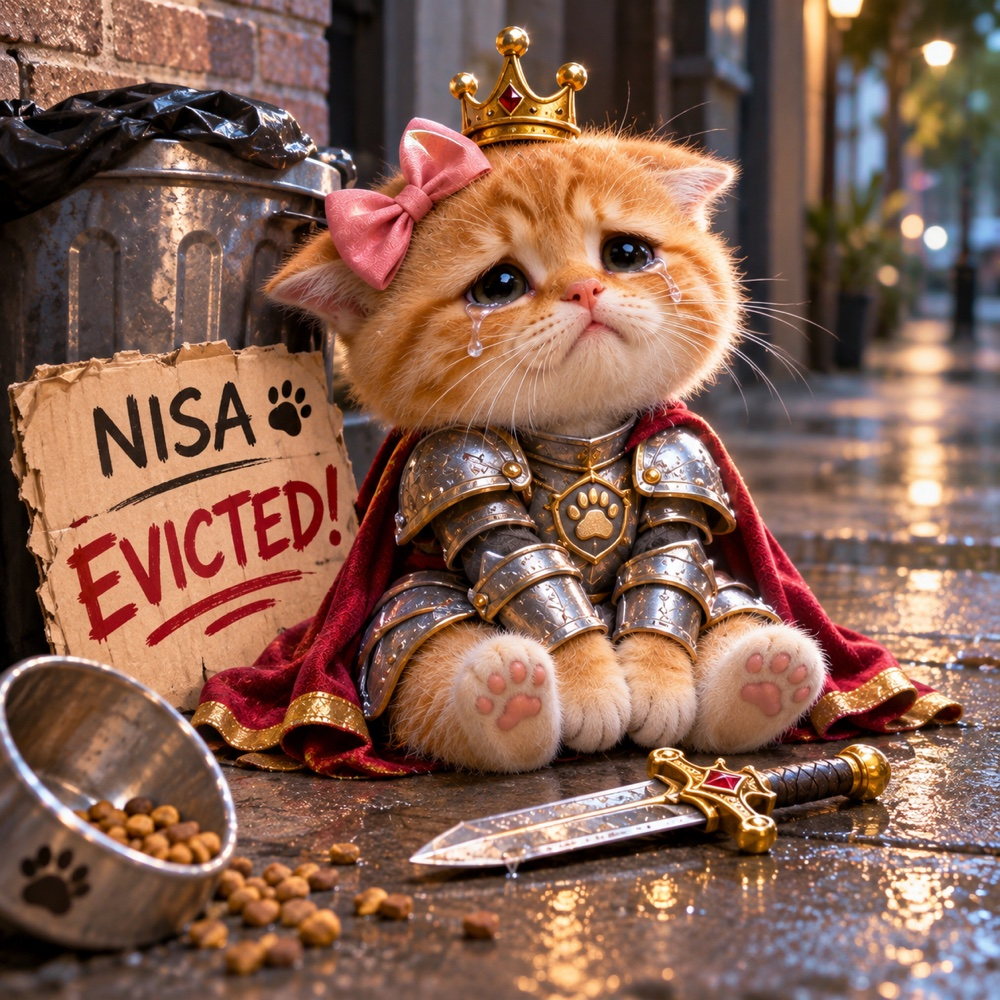
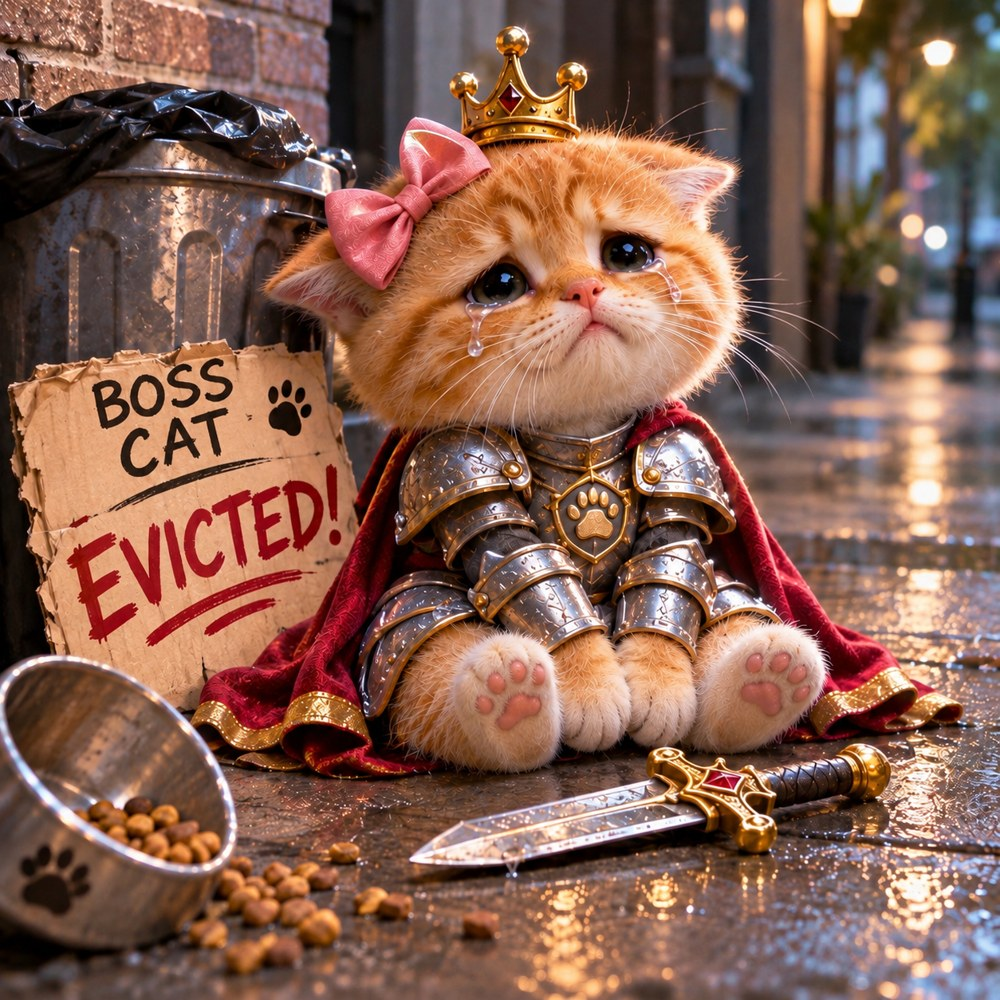
Fix score uploads, rename Boss Cat artwork and handle phone rotation in v0.6.21

diff --git a/index.template.html b/index.template.html
@@ -1,4 +1,4 @@
-<!doctype html><html lang="en"><head><meta charset="utf-8"><meta name="viewport" content="width=device-width,initial-scale=1,viewport-fit=cover,user-scalable=no"><title>Smack That Cat! v0.6.20</title><style>
+<!doctype html><html lang="en"><head><meta charset="utf-8"><meta name="viewport" content="width=device-width,initial-scale=1,viewport-fit=cover,user-scalable=no"><title>Smack That Cat! v0.6.21</title><style>
 *{box-sizing:border-box}html,body{margin:0;height:100%;overflow:hidden;background:#261522;font-family:system-ui,-apple-system,sans-serif;color:white}button{cursor:pointer;font:inherit;touch-action:manipulation}#app{position:relative;max-width:650px;height:100dvh;margin:auto;overflow:hidden;background:radial-gradient(circle,#fff5da,#f7bcb3)}.hidden{display:none!important}#home,#game,#cinema,#end,#help,#paused{position:absolute;inset:0}#home{background:#35221e}#poster{width:100%;height:100%;object-fit:cover}#home:after{content:"";position:absolute;inset:65% 0 0;background:linear-gradient(transparent,#24111ad9);pointer-events:none}#menu{position:absolute;bottom:max(5%,env(safe-area-inset-bottom));left:0;right:0;z-index:2;display:grid;justify-items:center;gap:12px}.primary{border:4px solid #fff3d8;border-radius:50px;background:linear-gradient(#ff7286,#e72452);color:white;font-size:27px;font-weight:1000;padding:12px 58px;box-shadow:0 6px #92203c}.secondary{border:2px solid #a34a5a;border-radius:40px;background:#fff3dd;color:#692d43;font-weight:800;padding:10px 25px}#hud{position:absolute;z-index:5;top:max(10px,env(safe-area-inset-top));left:10px;right:10px;display:flex;align-items:flex-start;justify-content:space-between;gap:5px}.pill{min-width:73px;text-align:center;border-radius:13px;border:2px solid #ffdb95;background:#6b3041;padding:5px 8px;font-size:11px;font-weight:900}.pill strong{display:block;font-size:25px;color:#ffe57a}#tools{display:flex;gap:5px}#tools button{border:2px solid #fff6;border-radius:10px;background:#fff3df;color:#763145;height:43px;min-width:39px}#phase{position:absolute;top:85px;left:6px;right:6px;text-align:center;color:#922b50;font-size:clamp(18px,5vw,26px);font-weight:1000}#arena{position:absolute;inset:145px 8px 105px;overflow:hidden;touch-action:none}#target{position:absolute;left:50%;top:50%;transform:translate(-50%,-50%);width:clamp(120px,39vw,240px);height:clamp(120px,39vw,240px);border:0;background:none;padding:0;touch-action:none;transition:left .13s ease-out,top .13s ease-out}#target img{width:100%;height:100%;object-fit:contain;pointer-events:none;user-select:none}#target.boss{width:min(65%,260px);height:min(80%,380px)}#target.hit img{animation:boop .16s ease}@keyframes boop{50%{transform:scale(.89) rotate(-5deg)}}#bubble{position:absolute;bottom:calc(100% + 6px);left:50%;transform:translateX(-50%);white-space:nowrap;font-size:clamp(17px,4.2vw,23px);color:#e92859;font-weight:1000;text-shadow:1px 2px white;pointer-events:none}#progress{position:absolute;bottom:max(12px,env(safe-area-inset-bottom));left:4px;right:4px;text-align:center;color:#782c43;font-weight:900;font-size:13px}#slots{display:flex;justify-content:center;gap:5px;margin-top:7px}.slot{width:clamp(37px,11vw,54px);height:clamp(37px,11vw,54px);border:2px solid #ce8793;border-radius:10px;background:#fff9}.slot img{width:100%;height:100%;object-fit:contain}#cinema{z-index:12;background:#21151e;display:flex;flex-direction:column;align-items:stretch;justify-content:center;padding-top:env(safe-area-inset-top);padding-bottom:env(safe-area-inset-bottom)}#cinema img{width:100%;height:calc(100% - 96px);min-height:0;object-fit:contain;flex:1}#cinemaLabel{position:relative;flex:none;min-height:90px;padding:12px 16px;display:grid;place-items:center;text-align:center;font-weight:1000;font-size:clamp(18px,4.8vw,29px);line-height:1.12;color:#ffe46c;text-shadow:2px 3px #842441;background:#21151e}#end,#help,#paused{z-index:20;background:#271524e9;display:grid;place-items:center;padding:18px}.panel{background:#fff1d9;border:4px solid #f6bb61;border-radius:23px;color:#702d43;padding:23px;max-width:440px;width:100%;text-align:center}.panel h1{margin:0 0 10px}#finalScore{font-size:58px;font-weight:1000;color:#e83259}#notice{position:absolute;z-index:8;top:23%;left:10%;right:10%;text-align:center;font-weight:1000;font-size:clamp(22px,5vw,32px);color:#ef3b64;text-shadow:2px 2px white;pointer-events:none}#notice.bossNotice{top:112px;font-size:19px}#toast{font-size:14px;min-height:20px}@media(max-height:620px){#arena{inset:125px 8px 75px}#phase{top:75px}#target.boss{height:75%}#progress{font-size:11px}}@media(min-aspect-ratio:1/1){#poster{object-fit:contain}#arena{inset:120px 8px 65px}#target{width:clamp(110px,28vh,230px);height:clamp(110px,28vh,230px)}#target.boss{height:85%}}
 
 /* Use the game’s own hit feedback and keep touch gestures out of the arena. */
@@ -136,9 +136,15 @@
 #boardTabs button[aria-selected="true"] { background:#8e3552; color:#fff5db; }
 #boardPeriod {font-size:12px;min-height:16px}
 #boardEmpty {font-size:13px}
-</style></head><body><main id="app"><section id="home"><img id="poster" src="assets/landing.png" alt="Chaotic cat kitchen"><div id="menu"><div id="homeProgress"></div><button id="play" class="primary">PLAY!</button><button id="openAlbum" class="secondary">MY PAW-SY & DAILY GIFT</button><button id="how" class="secondary">HOW TO PLAY</button><button id="homeSound" class="secondary" aria-label="Play music">♪ Play music</button></div></section><section id="game" class="hidden"><div id="hud"><div class="pill">YOUR SCORE<strong id="score">0</strong></div><div class="pill">TIME<strong id="time">15</strong></div><div id="tools"><button id="sound" aria-label="Toggle sound">🔊</button><button id="pause" aria-label="Pause">Ⅱ</button></div></div><div id="phase">SMACK THAT CAT!</div><div id="notice"></div><div id="arena"><div id="roundupFriends" class="hidden"></div><div id="bossImpact" aria-hidden="true"></div><button id="target" aria-label="Tap cat"><img id="cat" alt="Cat"><span id="bubble"></span></button></div><div id="progress"><span id="progressText">PAW-SY COLLECTED 0/6</span><div id="slots"></div></div>
-<div id="bossIntro" class="hidden" role="status"><strong>A WILD NISA HAS APPEARED!</strong><span id="bossCommand" class="hidden">QUICK SMACK HER!</span></div><div id="comboMeter" class="hidden">Hits in a row build a combo</div><div id="comboPopup" class="hidden" role="status"></div>
-<div id="bossLine" class="hidden">NISA HITS 0</div>
+
+html,body { width:100%; overscroll-behavior:none; }
+#app { height:var(--playHeight,100dvh); }
+#rotateNotice { position:absolute; inset:0; z-index:30; display:grid; place-items:center; padding:20px; background:#291925f5; text-align:center; }
+#rotateNotice h1 {font-size:25px}
+#rotateNotice p {line-height:1.5}
+</style></head><body><main id="app"><section id="rotateNotice" class="hidden" role="alert"><div class="panel"><h1>Turn your phone upright</h1><p>The cats play best in portrait.<br><span id="rotateHint">Turn back to keep playing.</span></p></div></section><section id="home"><img id="poster" src="assets/landing.png" alt="Chaotic cat kitchen"><div id="menu"><div id="homeProgress"></div><button id="play" class="primary">PLAY!</button><button id="openAlbum" class="secondary">MY PAW-SY & DAILY GIFT</button><button id="how" class="secondary">HOW TO PLAY</button><button id="homeSound" class="secondary" aria-label="Play music">♪ Play music</button></div></section><section id="game" class="hidden"><div id="hud"><div class="pill">YOUR SCORE<strong id="score">0</strong></div><div class="pill">TIME<strong id="time">15</strong></div><div id="tools"><button id="sound" aria-label="Toggle sound">🔊</button><button id="pause" aria-label="Pause">Ⅱ</button></div></div><div id="phase">SMACK THAT CAT!</div><div id="notice"></div><div id="arena"><div id="roundupFriends" class="hidden"></div><div id="bossImpact" aria-hidden="true"></div><button id="target" aria-label="Tap cat"><img id="cat" alt="Cat"><span id="bubble"></span></button></div><div id="progress"><span id="progressText">PAW-SY COLLECTED 0/6</span><div id="slots"></div></div>
+<div id="bossIntro" class="hidden" role="status"><strong>A WILD BOSS CAT HAS APPEARED!</strong><span id="bossCommand" class="hidden">QUICK SMACK HER!</span></div><div id="comboMeter" class="hidden">Hits in a row build a combo</div><div id="comboPopup" class="hidden" role="status"></div>
+<div id="bossLine" class="hidden">BOSS CAT HITS 0</div>
 </section><section id="cinema" class="hidden"><img id="scene" alt="Story scene"><div id="cinemaLabel"></div><div id="cinemaTip" class="hidden">CATCH FRIENDS · SKIP TABBIES<br>Collect all 6 · Seconds left = points!</div></section><section id="roundResult" class="hidden" aria-live="polite">
   <div class="panel">
     <h1 id="roundResultText">Round complete!</h1>
@@ -157,13 +163,13 @@
   <div id="boardTabs" role="tablist" aria-label="Leaderboard period"><button id="weekTab" role="tab" aria-selected="true" aria-controls="boardPanel">This Week</button><button id="allTab" role="tab" aria-selected="false" tabindex="-1" aria-controls="boardPanel">All Time</button></div><p id="boardPeriod">Mon–Sun · Malaysia time (UTC+8)</p><div id="boardPanel" role="tabpanel" aria-labelledby="weekTab"><p id="boardEmpty"></p>
 
   <table aria-label="Online high scores">
-    <thead><tr><th scope="col">Rank</th><th scope="col">Player</th><th scope="col">Score</th><th scope="col">Nisa hits</th></tr></thead>
+    <thead><tr><th scope="col">Rank</th><th scope="col">Player</th><th scope="col">Score</th><th scope="col">Boss Cat hits</th></tr></thead>
     <tbody id="ranks"></tbody>
   </table></div>
 
 </section></div></section><section id="journal" class="hidden" role="dialog" aria-modal="true" aria-labelledby="albumTitle"><div class="panel">
 <h1 id="albumTitle">MY PAW-SY</h1><p id="albumBest"></p><div id="albumGrid"></div>
-<h2>Today's little adventure</h2><p>Collect 18 friends across your rounds to earn today's ribbon. Every friend counts!</p><progress id="dailyMeter" max="18" value="0" aria-label="Friends collected today"></progress><p id="dailyProgress"></p><div id="dailyRibbons" aria-label="Daily ribbons"></div><p id="saveNote"></p><button id="closeAlbum" class="secondary">BACK TO THE CATS</button></div></section><section id="help" class="hidden"><div class="panel"><h1>HOW TO PLAY</h1><p><strong>SMACK THAT CAT!</strong> Tap cats: each hit earns 1 point. Keep hitting within 0.6 seconds to build a combo. A miss or a pause ends it.</p><p><strong>BOSS CAT:</strong> Smack Nisa as often as you can during her full 5 seconds!</p><p><strong>PAW-SY ROUNDUP:</strong> Catch named friends, skip tabbies. Collect all 6 in 10 seconds. Finish in 3 seconds to earn 7 points!</p><p><strong>COME BACK FOR A LITTLE ADVENTURE:</strong> Your album and personal best save on this browser. Collect 18 friends in a day for a ribbon. No sign-in, and no penalty for missing a day.</p><button id="closeHelp" class="secondary">GOT IT!</button></div></section><section id="paused" class="hidden"><div class="panel"><h1>PAUSED</h1><button id="resume" class="primary">RESUME</button></div></section></main><script>(()=>{'use strict';const $=id=>document.getElementById(id);const ASSETS={"tabby0":"assets/tabby0.png","tabby5":"assets/tabby5.png","cloud":"assets/cloud.png","tiger":"assets/tiger.png","mango":"assets/mango.png","shadow":"assets/shadow.png","snowball":"assets/snowball.png","oreo":"assets/oreo.png","tabby1":"assets/tabby1.png","return":"assets/return.png","tabby3":"assets/tabby3.png","boss":"assets/boss.png","defeat":"assets/defeat.png","tabby2":"assets/tabby2.png","tabby4":"assets/tabby4.png","landing":"assets/landing.png"};const asset=n=>ASSETS[n];const tabbies=Array.from({length:6},(_,i)=>asset('tabby'+i));const friends=['snowball','shadow','oreo','mango','tiger','cloud'].map(asset);const scenes={defeat:asset('defeat'),return:asset('return')};let phase='menu',score=0,remaining=15,deadline=0,paused=false,raf=0,sceneTimeout=0,sceneRemaining=0,sceneStarted=0,pawHits=0,friendCount=0,awaitingFriend=false,tabbyIndex=0,audioOn=true,token=0;const AUDIO={"meow":"assets/meow.wav","smack":"assets/smack.wav","bossImpact1":"assets/boss-hit-1.wav","bossImpact2":"assets/boss-hit-2.wav","bossImpact3":"assets/boss-hit-3.wav","bossImpact4":"assets/boss-hit-4.wav","bossImpact5":"assets/boss-hit-5.wav","bossImpact6":"assets/boss-hit-6.wav","bossImpact7":"assets/boss-hit-7.wav","bossImpact8":"assets/boss-hit-8.wav","bossMeow1":"assets/boss-meow-1.wav","bossMeow2":"assets/boss-meow-2.wav","bossMeow3":"assets/boss-meow-3.wav","bossMeow4":"assets/boss-meow-4.wav","bossMeow5":"assets/boss-meow-5.wav","impact1":"assets/smack-1.wav","impact2":"assets/smack-2.wav","impact3":"assets/smack-3.wav","impact4":"assets/smack-4.wav","impact5":"assets/smack-5.wav","impact6":"assets/smack-6.wav","music":"assets/background.wav","bossMusic":"assets/boss-music.wav","sadMusic":"assets/sad-music.wav","angry":"assets/meow-angry.wav","attention":"assets/meow-attention.wav","pain":"assets/meow-pain.wav","sweet":"assets/meow-sweet.wav"};
+<h2>Today's little adventure</h2><p>Collect 18 friends across your rounds to earn today's ribbon. Every friend counts!</p><progress id="dailyMeter" max="18" value="0" aria-label="Friends collected today"></progress><p id="dailyProgress"></p><div id="dailyRibbons" aria-label="Daily ribbons"></div><p id="saveNote"></p><button id="closeAlbum" class="secondary">BACK TO THE CATS</button></div></section><section id="help" class="hidden"><div class="panel"><h1>HOW TO PLAY</h1><p><strong>SMACK THAT CAT!</strong> Tap cats: each hit earns 1 point. Keep hitting within 0.6 seconds to build a combo. A miss or a pause ends it.</p><p><strong>BOSS CAT:</strong> Smack Boss Cat as often as you can during her full 5 seconds!</p><p><strong>PAW-SY ROUNDUP:</strong> Catch named friends, skip tabbies. Collect all 6 in 10 seconds. Finish in 3 seconds to earn 7 points!</p><p><strong>COME BACK FOR A LITTLE ADVENTURE:</strong> Your album and personal best save on this browser. Collect 18 friends in a day for a ribbon. No sign-in, and no penalty for missing a day.</p><button id="closeHelp" class="secondary">GOT IT!</button></div></section><section id="paused" class="hidden"><div class="panel"><h1>PAUSED</h1><button id="resume" class="primary">RESUME</button></div></section></main><script>(()=>{'use strict';const $=id=>document.getElementById(id);const ASSETS={"tabby0":"assets/tabby0.png","tabby5":"assets/tabby5.png","cloud":"assets/cloud.png","tiger":"assets/tiger.png","mango":"assets/mango.png","shadow":"assets/shadow.png","snowball":"assets/snowball.png","oreo":"assets/oreo.png","tabby1":"assets/tabby1.png","return":"assets/return.png","tabby3":"assets/tabby3.png","boss":"assets/boss.png","defeat":"assets/defeat.png","tabby2":"assets/tabby2.png","tabby4":"assets/tabby4.png","landing":"assets/landing.png"};const asset=n=>ASSETS[n];const tabbies=Array.from({length:6},(_,i)=>asset('tabby'+i));const friends=['snowball','shadow','oreo','mango','tiger','cloud'].map(asset);const scenes={defeat:asset('defeat'),return:asset('return')};let phase='menu',score=0,remaining=15,deadline=0,paused=false,raf=0,sceneTimeout=0,sceneRemaining=0,sceneStarted=0,pawHits=0,friendCount=0,awaitingFriend=false,tabbyIndex=0,audioOn=true,token=0;const AUDIO={"meow":"assets/meow.wav","smack":"assets/smack.wav","bossImpact1":"assets/boss-hit-1.wav","bossImpact2":"assets/boss-hit-2.wav","bossImpact3":"assets/boss-hit-3.wav","bossImpact4":"assets/boss-hit-4.wav","bossImpact5":"assets/boss-hit-5.wav","bossImpact6":"assets/boss-hit-6.wav","bossImpact7":"assets/boss-hit-7.wav","bossImpact8":"assets/boss-hit-8.wav","bossMeow1":"assets/boss-meow-1.wav","bossMeow2":"assets/boss-meow-2.wav","bossMeow3":"assets/boss-meow-3.wav","bossMeow4":"assets/boss-meow-4.wav","bossMeow5":"assets/boss-meow-5.wav","impact1":"assets/smack-1.wav","impact2":"assets/smack-2.wav","impact3":"assets/smack-3.wav","impact4":"assets/smack-4.wav","impact5":"assets/smack-5.wav","impact6":"assets/smack-6.wav","music":"assets/background.wav","bossMusic":"assets/boss-music.wav","sadMusic":"assets/sad-music.wav","angry":"assets/meow-angry.wav","attention":"assets/meow-attention.wav","pain":"assets/meow-pain.wav","sweet":"assets/meow-sweet.wav"};
 const show = (id, on) => $(id).classList.toggle('hidden', !on);
 const smackTrack = { name: 'smack', volume: .6, voices: [] };
 const meowTrack = { name: 'meow', volume: .38, voices: [] };
@@ -732,7 +738,7 @@ function beginRoundup() {
 function image(src){$('cat').src=src}function move(center=false){const target=$('target');if(center||phase==='boss'){target.style.left='50%';target.style.top='50%';return}const arena=$('arena'),w=arena.clientWidth,h=arena.clientHeight,tw=target.offsetWidth,th=target.offsetHeight;const x=tw/2+Math.random()*Math.max(0,w-tw),y=th/2+Math.random()*Math.max(0,h-th);target.style.left=x+'px';target.style.top=y+'px'}function nextTabby(){$('target').setAttribute('aria-label','Tap cat');tabbyIndex=(tabbyIndex+1)%6;image(tabbies[tabbyIndex]);move()}function reset(){stopTapSounds();roundupPoints=0;show('roundupFriends',false);show('roundupPack',false);show('target',true);clearTimeout(bossNoticeTimer);tabbyStreak=0;clearTimeout(comboTimer);show('comboPopup',false);musicOffset=0;nextMeowAt=0;clearTimeout(sceneTimeout);cancelAnimationFrame(raf);token++;score=0;pawHits=0;friendCount=0;awaitingFriend=false;tabbyIndex=0;paused=false;$('score').textContent='0';$('progressText').textContent='PAW-SY COLLECTED 0/6';$('slots').innerHTML=Array.from({length:6},()=>'<div class="slot"></div>').join('');$('bubble').textContent='';$('notice').textContent='';$('notice').className='';$('target').className='';$('target').setAttribute('aria-label','Tap cat');show('home',false);show('end',false);show('roundResult',false);show('bossIntro',false);$('game').classList.remove('bossDrama');show('cinema',false);show('paused',false);show('game',true)}function begin(p,duration){
   phase=p;
   clearTimeout(bossNoticeTimer);
-  $('bossLine').textContent = 'NISA HITS 0';
+  $('bossLine').textContent = 'BOSS CAT HITS 0';
   show('bossIntro', false);
   $('game').classList.toggle('bossDrama', p === 'boss');
   syncMusic();
@@ -819,8 +825,8 @@ raf=requestAnimationFrame(tick)}function finishBoss() {
   $('time').textContent = '0';
   clearTimeout(bossNoticeTimer);
   const hits = rankedRun.taps.boss.length;
-  $('notice').textContent = hits ? 'NISA IS ALL SMACKED OUT!' : 'NISA GOT AWAY!';
-  $('bossLine').textContent = 'NISA HITS ' + hits;
+  $('notice').textContent = hits ? 'BOSS CAT IS ALL SMACKED OUT!' : 'BOSS CAT GOT AWAY!';
+  $('bossLine').textContent = 'BOSS CAT HITS ' + hits;
   playHitAnimation();
   if (hits) playTrack(bossReactionTracks[Math.floor(Math.random()*bossReactionTracks.length)]);
   raf = requestAnimationFrame(tick);
@@ -835,7 +841,7 @@ function cinema(which) {
   show('cinema', true);
   $('scene').src = scenes[which];
   show('cinemaTip', which === 'return');
-  $('cinemaLabel').textContent = which === 'defeat' ? 'POOR NISA!' : 'OH NO! THE CAT HAS BROUGHT ITS PAW-SY!!';
+  $('cinemaLabel').textContent = which === 'defeat' ? 'POOR BOSS CAT!' : 'OH NO! THE CAT HAS BROUGHT ITS PAW-SY!!';
   token++;
   animateTransition($('scene'), true);
   playCue(which);
@@ -939,7 +945,7 @@ function hit(e) {
   playHitAnimation();
   if (phase === 'boss') {
   const hits = rankedRun.taps.boss.length;
-  $('bossLine').textContent = 'NISA HITS ' + hits;
+  $('bossLine').textContent = 'BOSS CAT HITS ' + hits;
   if (hits % 5 === 0) {
     clearTimeout(bossNoticeTimer);
     $('notice').textContent = hits >= 15 ? 'WHAT THE FLUFF?!' : hits >= 10 ? 'HEY! MY ARMOR!' : 'HEY!';
@@ -968,7 +974,8 @@ if(awaitingFriend){
  if(pawHits===2){awaitingFriend=true;image(friends[friendCount]);move(true);playTrack(meowTrack,1.16,.09);$('bubble').textContent='TAP TO COLLECT!';$('notice').textContent='Tap '+['Snowball','Shadow','Oreo','Mango','Tiger','Cloud'][friendCount]+'!';$('target').setAttribute('aria-label','Collect '+['Snowball','Shadow','Oreo','Mango','Tiger','Cloud'][friendCount]);}
  else{nextTabby();$('notice').textContent='One more tabby!';$('bubble').textContent='';}
 }
-}else{nextTabby();if(score%9===0)$('bubble').textContent='PURR-FECT!';else $('bubble').textContent=''}}function start(){prepareAudio();reset();startRankedRun();begin('tabby',15)}function pause() {
+}else{nextTabby();if(score%9===0)$('bubble').textContent='PURR-FECT!';else $('bubble').textContent=''}}function start(){prepareAudio();reset();startRankedRun();begin('tabby',15);fitGame()}function pause() {
+  if (portraitRequired() && paused) return;
   if (!['tabby', 'boss-intro', 'boss', 'boss-finish', 'paw', 'defeat', 'return', 'round-result'].includes(phase)) return;
   const now = performance.now();
   if (!paused) {
@@ -993,5 +1000,52 @@ $('target').addEventListener('click', event => {
 $('target').addEventListener('keydown', event => {
   if (event.repeat && (event.key === 'Enter' || event.key === ' ')) event.preventDefault();
 });$('play').onclick=start;$('again').onclick=start;$('how').onclick=()=>show('help',true);$('closeHelp').onclick=()=>show('help',false);$('sound').onclick=()=>{audioOn=!audioOn;if(audioOn)prepareAudio();else stopTapSounds();syncMusic();$('sound').textContent=audioOn?'🔊':'🔇'};$('pause').onclick=pause;$('resume').onclick=pause;document.addEventListener('visibilitychange',()=>{if(document.hidden&&!paused&&['tabby','boss-intro','boss','boss-finish','paw','defeat','return','round-result'].includes(phase))pause()});for(const src of [...tabbies,...friends,asset('boss'),...Object.values(scenes),asset('landing')]){const im=new Image();im.src=src}window.__smackQA=()=>({phase,score,remaining,pawHits,friendCount,awaitingFriend});
+// Recalculate Safari's visible height after rotation and browser-chrome changes.
+const activePhases=['tabby','boss-intro','boss','boss-finish','paw','defeat','return','round-result'];
+function portraitRequired() {
+  const touch=window.matchMedia?.('(any-pointer: coarse)')?.matches || window.navigator?.maxTouchPoints>0;
+  return Boolean(touch && window.innerWidth>window.innerHeight);
+}
+function fitGame() {
+  const height=Math.min(window.innerHeight || Infinity,window.visualViewport?.height || Infinity);
+  if(Number.isFinite(height) && height>0) $('app').style.setProperty('--playHeight',Math.round(height)+'px');
+  const rotated=portraitRequired();
+  if(rotated && activePhases.includes(phase) && !paused) pause();
+  show('rotateNotice',rotated);
+  $('rotateHint').textContent=paused ? 'Your timer is paused. Turn back, then tap Resume.' : 'Turn back to keep playing.';
+  // Pixel-based target positions must fit the resized arena in both directions.
+  if(['tabby','boss'].includes(phase)) {
+    const target=$('target'),arena=$('arena');
+    const x=parseFloat(target.style.left),y=parseFloat(target.style.top);
+    if(target.style.left?.endsWith('px') && (x-target.offsetWidth/2<0 || x+target.offsetWidth/2>arena.clientWidth || y-target.offsetHeight/2<0 || y+target.offsetHeight/2>arena.clientHeight)) move(true);
+  }
+}
+let resizeFrame;
+function onViewportChange() { cancelAnimationFrame(resizeFrame); resizeFrame=requestAnimationFrame(()=>{fitGame();requestAnimationFrame(fitGame);}); }
+window.addEventListener?.('resize',onViewportChange);
+window.addEventListener?.('orientationchange',onViewportChange);
+window.visualViewport?.addEventListener('resize',onViewportChange);
+fitGame();
+// Safari can keep its old viewport height after orientation changes.
+let viewportFrame=0;
+function fitViewport() {
+  const height=Math.min(window.innerHeight || Infinity,window.visualViewport?.height || Infinity);
+  if(Number.isFinite(height) && height>0) $('app').style.setProperty('--playHeight',Math.round(height)+'px');
+  const touchScreen=window.matchMedia?.('(any-pointer: coarse)')?.matches || window.navigator?.maxTouchPoints>0;
+  const sideways=Boolean(touchScreen && window.innerWidth>window.innerHeight);
+  const active=['tabby','boss-intro','boss','boss-finish','paw','defeat','return','round-result'].includes(phase);
+  if(sideways && active && !paused) pause();
+  $('rotateHint').textContent=active ? 'Your timer is paused. Turn back, then tap Resume.' : 'Turn back to keep playing.';
+  show('rotateNotice',sideways);
+  if(!sideways && ['tabby','boss'].includes(phase)) move(true);
+}
+function queueViewportFit() {
+  cancelAnimationFrame(viewportFrame);
+  viewportFrame=requestAnimationFrame(()=>{fitViewport(); viewportFrame=requestAnimationFrame(fitViewport);});
+}
+window.addEventListener?.('resize',queueViewportFit);
+window.visualViewport?.addEventListener('resize',queueViewportFit);
+window.addEventListener?.('orientationchange',()=>{queueViewportFit();setTimeout(queueViewportFit,250);setTimeout(queueViewportFit,700);});
+fitViewport();
 prepareAudio();
 updateHomeSound();})();</script></body></html>

diff --git a/README.md b/README.md
@@ -1,6 +1,6 @@
-# Smack That Cat! v0.6.20
+# Smack That Cat! v0.6.21
 
-Preserves the original tapping game, artwork, randomized smack/meow audio and full five-second Nisa fight. Roundup still ends on the sixth friend: points equal the displayed whole seconds left (rounded up). Completing at exactly three seconds earns seven Roundup points; incomplete teams earn zero Roundup points. Opening and Nisa hits earn one point each.
+Preserves the original tapping game, artwork, randomized smack/meow audio and full five-second Boss Cat fight. Roundup still ends on the sixth friend: points equal the displayed whole seconds left (rounded up). Completing at exactly three seconds earns seven Roundup points; incomplete teams earn zero Roundup points. Opening and Boss Cat hits earn one point each.
 
 ## Player experience
 
@@ -11,10 +11,19 @@ Preserves the original tapping game, artwork, randomized smack/meow audio and fu
 
 ## Online leaderboard
 
-“This Week” and “All Time” tabs show the top ten runs with player names, scores and Nisa hits. Weekly competition runs Monday 00:00 to the following Monday 00:00 in Malaysia (UTC+8). All-time scores retain the current scoring-rule history.
+“This Week” and “All Time” tabs show the top ten runs with player names, scores and Boss Cat hits. Weekly competition runs Monday 00:00 to the following Monday 00:00 in Malaysia (UTC+8). All-time scores retain the current scoring-rule history.
 
 Both periods are stored atomically in the existing private Blob at `leaderboard-roundup-clock-v1.json`. Weekly top ten are retained independently of all-time qualification. Existing retained scores seed the first weekly board. Prior rules boards are preserved and prior clients can still submit. Weekly rollover is calculated on server reads and writes; no scheduled reset or deletion is needed.
 
 ## Build and checks
 
 Run `npm ci`, `npm test`, and `node build.mjs`. Vercel serves `dist/` and the existing leaderboard function. Tests cover scoring, distractors, friend uniqueness, timeout/restart, daily completion and reset, reload persistence, blocked/corrupt storage, Malaysia weekly boundaries, preservation of all-time scores, and duplicate submission retries.
+
+
+## v0.6.21 corrections
+
+Leaderboard reads request uncompressed JSON so their strong Blob ETag can be used safely for conditional updates. The prior compressed response returned a weak ETag after the board grew, causing every conditional write to conflict. Concurrent-write protection and existing standings remain intact. API regression coverage includes a compression-sized board, one concurrent-write retry, and duplicate submission.
+
+All displayed boss references now say Boss Cat. The eviction and return illustrations were edited to replace the embedded name while preserving the original characters and scene style. Audio and the five-second boss fight are unchanged.
+
+Touch devices show a portrait reminder and pause active play when rotated sideways. Resize and visual-viewport events recalculate the available height; returning to portrait recenters active targets and retains the paused clock until Resume. Tests verify time preservation and restored height. Real-device Safari testing remains useful beyond browser viewport simulation.
